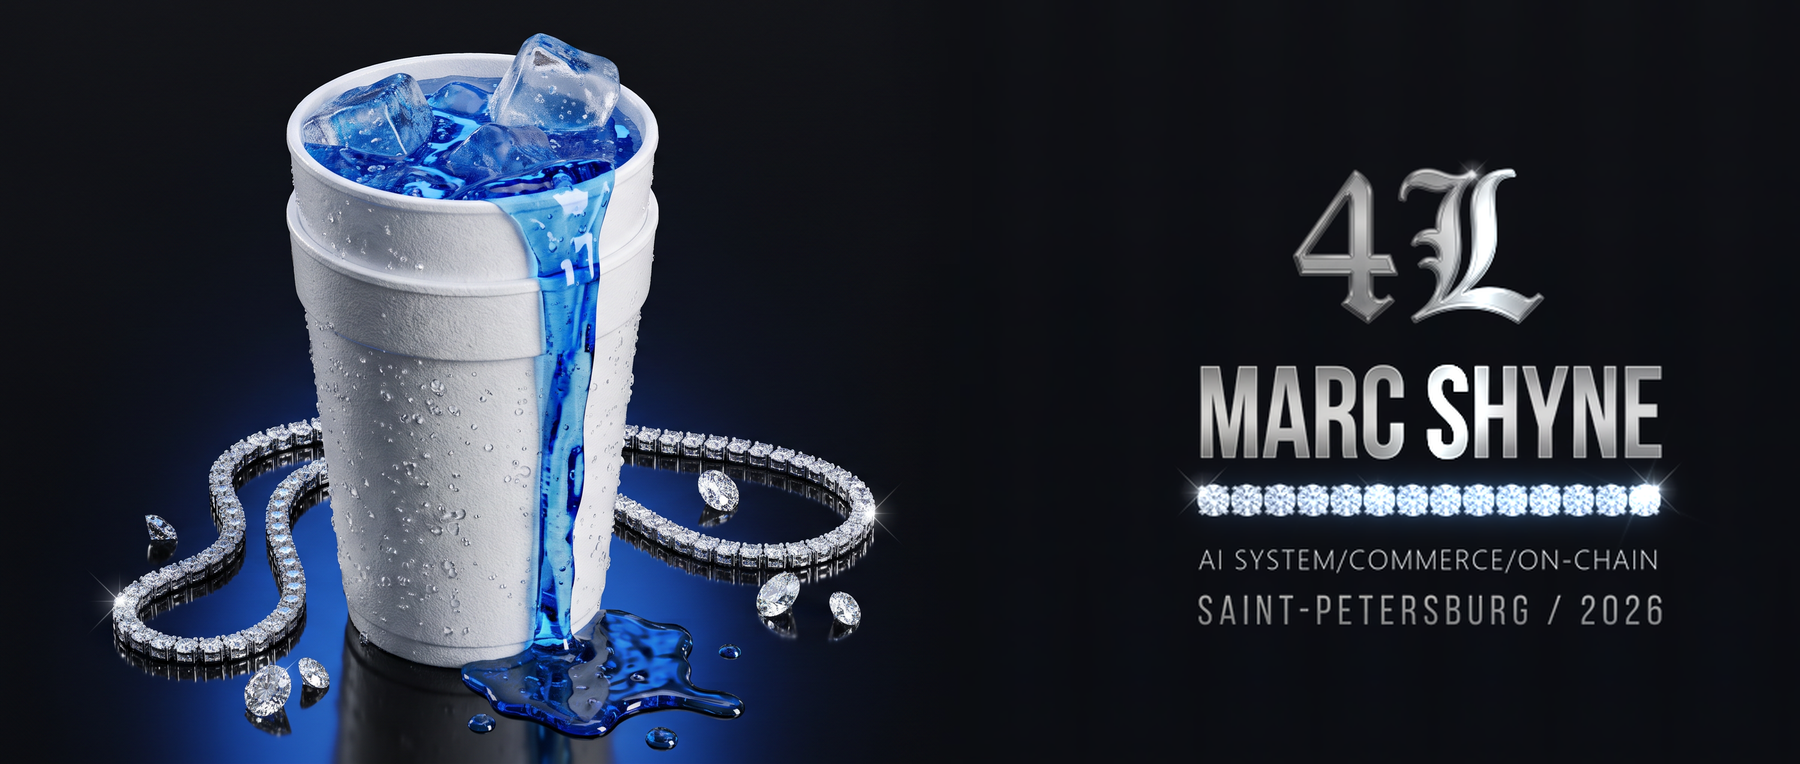
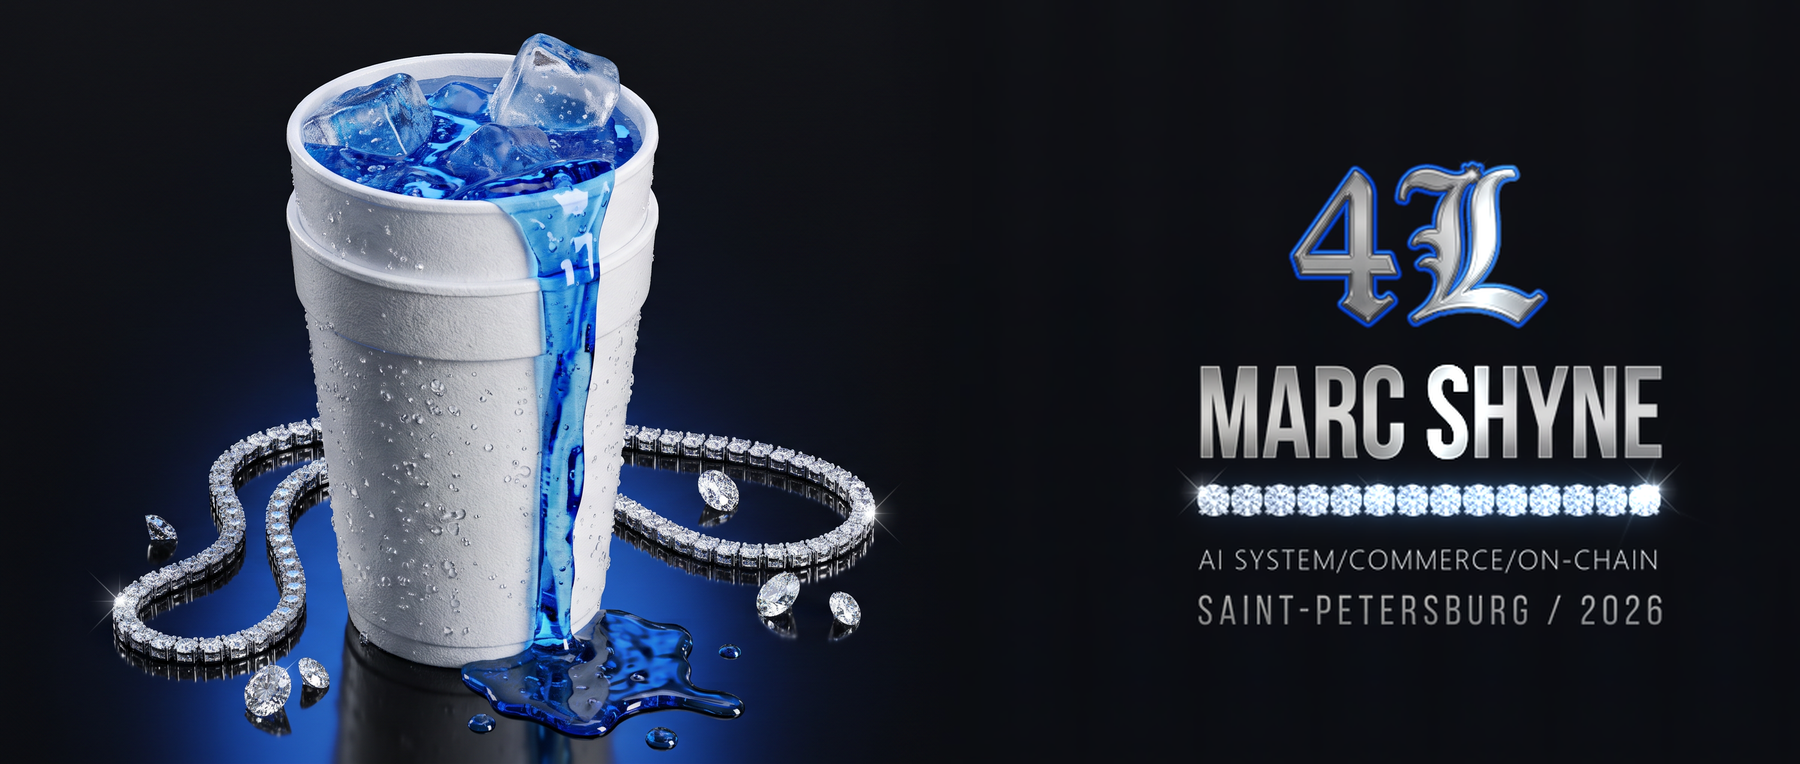
Edge the chrome 4L in sapphire enamel

Changed region(s): [[0.7156, 0.2107, 0.8711, 0.4215]]

diff --git a/README.md b/README.md
@@ -1,5 +1,5 @@
 <p align="center">
-  <img src="./assets/trap-banner-4l.webp" width="100%" alt="Marc Shyne 4L: a white double cup overflowing with blue soda and ice beside a diamond chain" />
+  <img src="./assets/trap-banner-4l-enamel.webp" width="100%" alt="Marc Shyne 4L: a white double cup overflowing with blue soda and ice beside a diamond chain" />
 </p>
 
 <p align="center">
